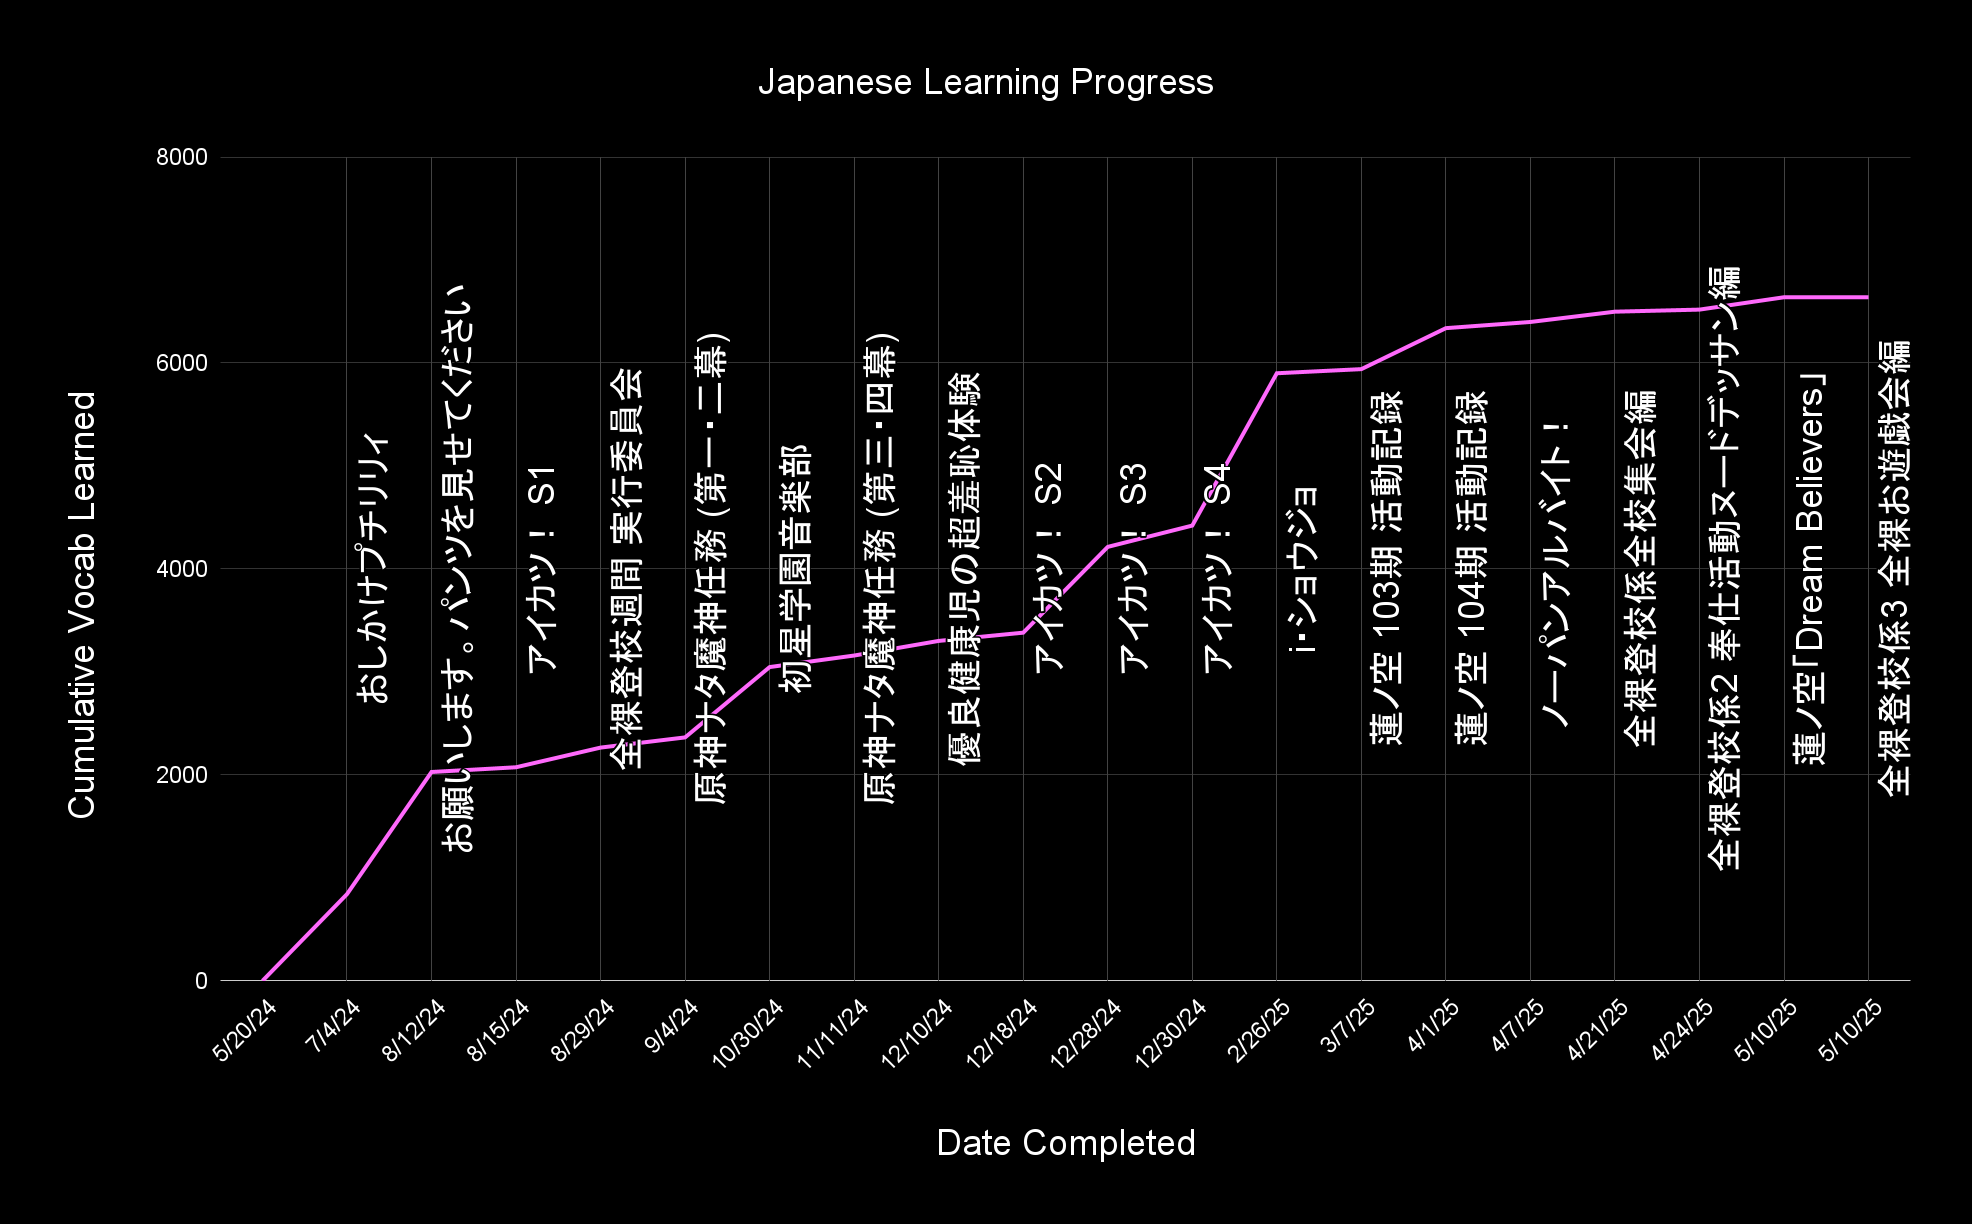
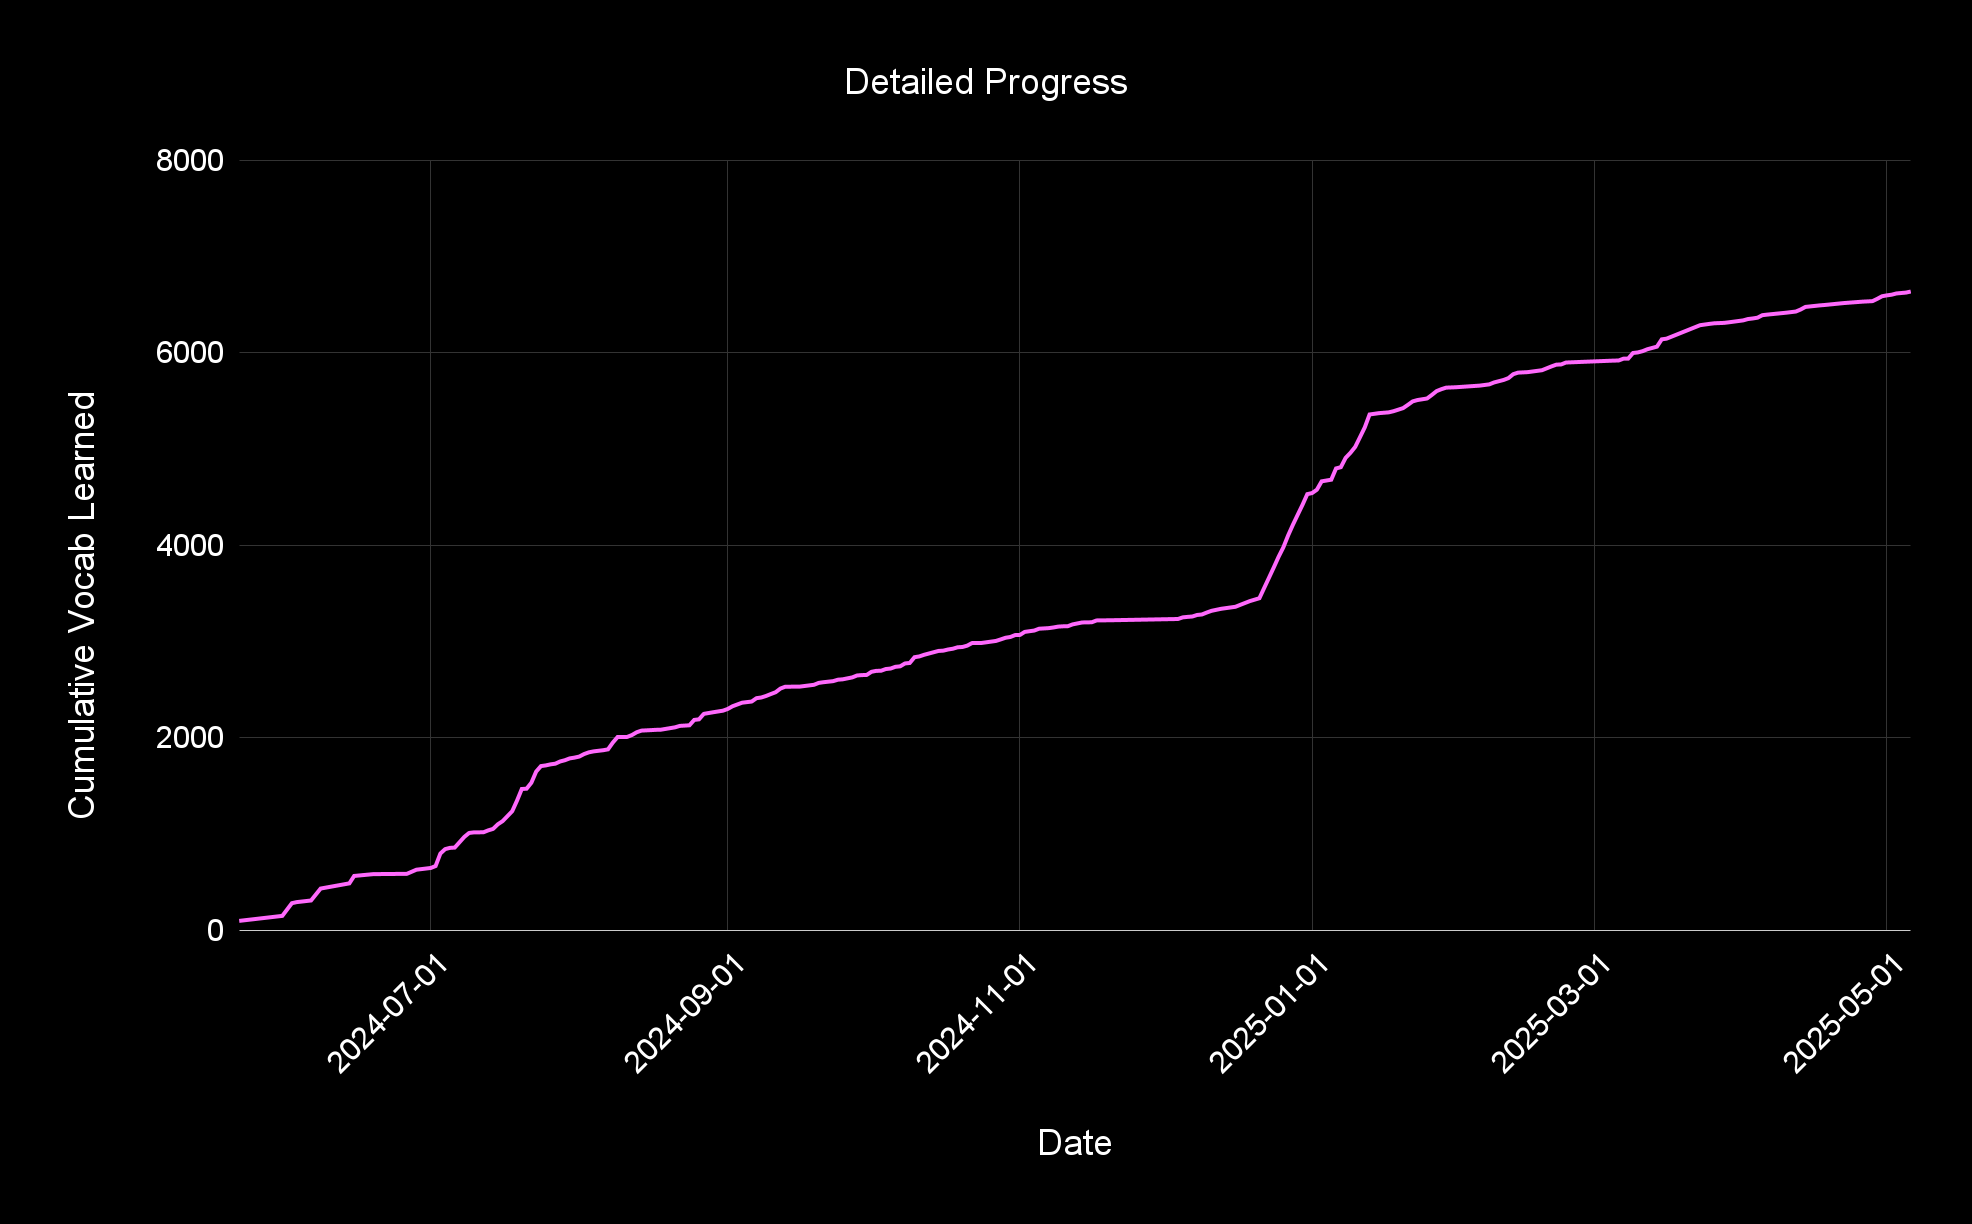
graph

diff --git a/index.html b/index.html
@@ -4,6 +4,9 @@
     <meta charset="UTF-8">
     <title>shio's list</title>
     <style>
+        html {
+            font-size: 150%;
+        }
         body {
             font-family: sans-serif;
             text-align: center;
@@ -18,7 +21,7 @@
             display: inline-block;
             margin: 10px;
             padding: 15px 30px;
-            font-size: 18px;
+            font-size: 27px;
             color: white;
             background: #ff69fc;
             border-radius: 8px;
@@ -70,13 +73,80 @@
     </div>
     
 
-    <img src="images/progresschart_1.png" 
-        alt="Media Chart"
-        style="width: 50vw; display: block; margin: 40px auto;">
+    
+    <div style="width: 100%; max-width: 1000px; margin: auto;">
+        <canvas id="cardsChart"></canvas>
+    </div>
+    <script src="https://cdn.jsdelivr.net/npm/chart.js"></script>
+    <script src="https://cdn.jsdelivr.net/npm/luxon@3.4.3/build/global/luxon.min.js"></script>
+    <script src="https://cdn.jsdelivr.net/npm/chartjs-adapter-luxon@1.3.1/dist/chartjs-adapter-luxon.umd.min.js"></script>
 
-    <img src="images/progresschart_2.png" 
-        alt="Media Chart"
-        style="width: 50vw; display: block; margin: 40px auto;">
+    <script>
+        const ctx = document.getElementById('cardsChart').getContext('2d');
+        new Chart(ctx, {
+            type: 'line',
+            data: {
+                datasets: [{
+                    label: 'Cumulative Cards Learned',
+                    data: [{ x: '2024-05-20', y: 0 },{ x: '2024-05-22', y: 96 },{ x: '2024-05-31', y: 148 },{ x: '2024-06-01', y: 214 },{ x: '2024-06-02', y: 280 },{ x: '2024-06-03', y: 291 },{ x: '2024-06-06', y: 308 },{ x: '2024-06-07', y: 370 },{ x: '2024-06-08', y: 432 },{ x: '2024-06-14', y: 486 },{ x: '2024-06-15', y: 563 },{ x: '2024-06-19', y: 582 },{ x: '2024-06-26', y: 585 },{ x: '2024-06-28', y: 628 },{ x: '2024-07-01', y: 646 },{ x: '2024-07-02', y: 666 },{ x: '2024-07-03', y: 796 },{ x: '2024-07-04', y: 842 },{ x: '2024-07-05', y: 855 },{ x: '2024-07-06', y: 858 },{ x: '2024-07-08', y: 969 },{ x: '2024-07-09', y: 1010 },{ x: '2024-07-10', y: 1016 },{ x: '2024-07-12', y: 1017 },{ x: '2024-07-13', y: 1037 },{ x: '2024-07-14', y: 1052 },{ x: '2024-07-15', y: 1100 },{ x: '2024-07-16', y: 1133 },{ x: '2024-07-18', y: 1236 },{ x: '2024-07-19', y: 1346 },{ x: '2024-07-20', y: 1467 },{ x: '2024-07-21', y: 1470 },{ x: '2024-07-22', y: 1532 },{ x: '2024-07-23', y: 1648 },{ x: '2024-07-24', y: 1705 },{ x: '2024-07-25', y: 1712 },{ x: '2024-07-26', y: 1723 },{ x: '2024-07-27', y: 1730 },{ x: '2024-07-28', y: 1753 },{ x: '2024-07-29', y: 1766 },{ x: '2024-07-30', y: 1785 },{ x: '2024-07-31', y: 1793 },{ x: '2024-08-01', y: 1804 },{ x: '2024-08-02', y: 1830 },{ x: '2024-08-03', y: 1848 },{ x: '2024-08-04', y: 1858 },{ x: '2024-08-05', y: 1864 },{ x: '2024-08-06', y: 1870 },{ x: '2024-08-07', y: 1879 },{ x: '2024-08-08', y: 1949 },{ x: '2024-08-09', y: 2007 },{ x: '2024-08-11', y: 2008 },{ x: '2024-08-12', y: 2028 },{ x: '2024-08-13', y: 2057 },{ x: '2024-08-14', y: 2074 },{ x: '2024-08-16', y: 2079 },{ x: '2024-08-17', y: 2082 },{ x: '2024-08-18', y: 2083 },{ x: '2024-08-21', y: 2108 },{ x: '2024-08-22', y: 2123 },{ x: '2024-08-24', y: 2129 },{ x: '2024-08-25', y: 2185 },{ x: '2024-08-26', y: 2191 },{ x: '2024-08-27', y: 2248 },{ x: '2024-08-29', y: 2265 },{ x: '2024-08-31', y: 2281 },{ x: '2024-09-01', y: 2299 },{ x: '2024-09-02', y: 2327 },{ x: '2024-09-04', y: 2364 },{ x: '2024-09-06', y: 2376 },{ x: '2024-09-07', y: 2411 },{ x: '2024-09-08', y: 2418 },{ x: '2024-09-09', y: 2434 },{ x: '2024-09-10', y: 2454 },{ x: '2024-09-11', y: 2473 },{ x: '2024-09-12', y: 2511 },{ x: '2024-09-13', y: 2530 },{ x: '2024-09-16', y: 2531 },{ x: '2024-09-19', y: 2550 },{ x: '2024-09-20', y: 2570 },{ x: '2024-09-21', y: 2577 },{ x: '2024-09-23', y: 2588 },{ x: '2024-09-24', y: 2603 },{ x: '2024-09-25', y: 2607 },{ x: '2024-09-27', y: 2627 },{ x: '2024-09-28', y: 2647 },{ x: '2024-09-29', y: 2651 },{ x: '2024-09-30', y: 2652 },{ x: '2024-10-01', y: 2685 },{ x: '2024-10-02', y: 2695 },{ x: '2024-10-03', y: 2696 },{ x: '2024-10-04', y: 2714 },{ x: '2024-10-05', y: 2719 },{ x: '2024-10-06', y: 2737 },{ x: '2024-10-07', y: 2742 },{ x: '2024-10-08', y: 2772 },{ x: '2024-10-09', y: 2777 },{ x: '2024-10-10', y: 2837 },{ x: '2024-10-11', y: 2845 },{ x: '2024-10-12', y: 2862 },{ x: '2024-10-15', y: 2902 },{ x: '2024-10-16', y: 2905 },{ x: '2024-10-17', y: 2917 },{ x: '2024-10-18', y: 2925 },{ x: '2024-10-19', y: 2940 },{ x: '2024-10-20', y: 2943 },{ x: '2024-10-21', y: 2957 },{ x: '2024-10-22', y: 2984 },{ x: '2024-10-24', y: 2985 },{ x: '2024-10-27', y: 3006 },{ x: '2024-10-28', y: 3022 },{ x: '2024-10-29', y: 3039 },{ x: '2024-10-30', y: 3047 },{ x: '2024-10-31', y: 3067 },{ x: '2024-11-01', y: 3068 },{ x: '2024-11-02', y: 3100 },{ x: '2024-11-04', y: 3114 },{ x: '2024-11-05', y: 3133 },{ x: '2024-11-07', y: 3139 },{ x: '2024-11-08', y: 3146 },{ x: '2024-11-09', y: 3155 },{ x: '2024-11-10', y: 3158 },{ x: '2024-11-11', y: 3159 },{ x: '2024-11-12', y: 3178 },{ x: '2024-11-14', y: 3198 },{ x: '2024-11-16', y: 3200 },{ x: '2024-11-17', y: 3219 },{ x: '2024-11-20', y: 3221 },{ x: '2024-12-04', y: 3234 },{ x: '2024-12-05', y: 3251 },{ x: '2024-12-06', y: 3256 },{ x: '2024-12-07', y: 3260 },{ x: '2024-12-08', y: 3276 },{ x: '2024-12-09', y: 3281 },{ x: '2024-12-10', y: 3301 },{ x: '2024-12-11', y: 3319 },{ x: '2024-12-13', y: 3340 },{ x: '2024-12-15', y: 3354 },{ x: '2024-12-16', y: 3361 },{ x: '2024-12-17', y: 3381 },{ x: '2024-12-19', y: 3420 },{ x: '2024-12-21', y: 3450 },{ x: '2024-12-22', y: 3557 },{ x: '2024-12-23', y: 3663 },{ x: '2024-12-24', y: 3770 },{ x: '2024-12-25', y: 3880 },{ x: '2024-12-26', y: 3979 },{ x: '2024-12-27', y: 4103 },{ x: '2024-12-28', y: 4214 },{ x: '2024-12-29', y: 4318 },{ x: '2024-12-30', y: 4421 },{ x: '2024-12-31', y: 4532 },{ x: '2025-01-01', y: 4543 },{ x: '2025-01-02', y: 4578 },{ x: '2025-01-03', y: 4665 },{ x: '2025-01-05', y: 4682 },{ x: '2025-01-06', y: 4799 },{ x: '2025-01-07', y: 4812 },{ x: '2025-01-08', y: 4909 },{ x: '2025-01-09', y: 4961 },{ x: '2025-01-10', y: 5023 },{ x: '2025-01-11', y: 5124 },{ x: '2025-01-12', y: 5226 },{ x: '2025-01-13', y: 5360 },{ x: '2025-01-15', y: 5374 },{ x: '2025-01-17', y: 5382 },{ x: '2025-01-18', y: 5394 },{ x: '2025-01-20', y: 5426 },{ x: '2025-01-21', y: 5460 },{ x: '2025-01-22', y: 5496 },{ x: '2025-01-23', y: 5510 },{ x: '2025-01-25', y: 5526 },{ x: '2025-01-26', y: 5563 },{ x: '2025-01-27', y: 5603 },{ x: '2025-01-28', y: 5623 },{ x: '2025-01-29', y: 5639 },{ x: '2025-01-31', y: 5643 },{ x: '2025-02-05', y: 5660 },{ x: '2025-02-07', y: 5673 },{ x: '2025-02-08', y: 5693 },{ x: '2025-02-10', y: 5719 },{ x: '2025-02-11', y: 5738 },{ x: '2025-02-12', y: 5779 },{ x: '2025-02-13', y: 5795 },{ x: '2025-02-15', y: 5800 },{ x: '2025-02-18', y: 5820 },{ x: '2025-02-19', y: 5840 },{ x: '2025-02-20', y: 5860 },{ x: '2025-02-21', y: 5878 },{ x: '2025-02-22', y: 5880 },{ x: '2025-02-23', y: 5900 },{ x: '2025-03-05', y: 5920 },{ x: '2025-03-06', y: 5921 },{ x: '2025-03-07', y: 5940 },{ x: '2025-03-08', y: 5941 },{ x: '2025-03-09', y: 5999 },{ x: '2025-03-10', y: 6005 },{ x: '2025-03-11', y: 6018 },{ x: '2025-03-12', y: 6038 },{ x: '2025-03-14', y: 6065 },{ x: '2025-03-15', y: 6141 },{ x: '2025-03-16', y: 6148 },{ x: '2025-03-17', y: 6168 },{ x: '2025-03-18', y: 6188 },{ x: '2025-03-19', y: 6208 },{ x: '2025-03-20', y: 6228 },{ x: '2025-03-21', y: 6248 },{ x: '2025-03-22', y: 6268 },{ x: '2025-03-23', y: 6288 },{ x: '2025-03-25', y: 6302 },{ x: '2025-03-26', y: 6308 },{ x: '2025-03-28', y: 6312 },{ x: '2025-03-29', y: 6318 },{ x: '2025-04-01', y: 6338 },{ x: '2025-04-02', y: 6352 },{ x: '2025-04-03', y: 6358 },{ x: '2025-04-04', y: 6366 },{ x: '2025-04-05', y: 6392 },{ x: '2025-04-06', y: 6398 },{ x: '2025-04-10', y: 6418 },{ x: '2025-04-12', y: 6430 },{ x: '2025-04-13', y: 6451 },{ x: '2025-04-14', y: 6478 },{ x: '2025-04-17', y: 6494 },{ x: '2025-04-18', y: 6498 },{ x: '2025-04-22', y: 6518 },{ x: '2025-04-26', y: 6533 },{ x: '2025-04-28', y: 6538 },{ x: '2025-04-29', y: 6562 },{ x: '2025-04-30', y: 6589 },{ x: '2025-05-01', y: 6598 },{ x: '2025-05-02', y: 6605 },{ x: '2025-05-03', y: 6618 },{ x: '2025-05-05', y: 6627 },{ x: '2025-05-06', y: 6638 }],
+                    borderColor: 'rgba(255, 105, 252, 1)',
+                    backgroundColor: 'rgba(255, 105, 252, 0.2)',
+                    fill: true,
+                    tension: 0,
+                    pointRadius: 0
+                }]
+            },
+            options: {
+                responsive: true,
+                scales: {
+                    x: {
+                        type: 'time',
+                        time: {
+                            unit: 'day'
+                        },
+                        title: {
+                            display: true,
+                            text: 'Date',
+                            font: {
+                                size: 16
+                            }
+                        },
+                        ticks: {
+                            font: {
+                                size: 12
+                            }
+                        }
+                    },
+                    y: {
+                        beginAtZero: true,
+                        title: {
+                            display: true,
+                            text: 'Total Learned',
+                            font: {
+                                size: 16
+                            }
+                        },
+                        ticks: {
+                            font: {
+                                size: 16
+                            }
+                        }
+                    }
+                },
+                plugins: {
+                    legend: {
+                        labels: {
+                            color: '#e0e0e0',
+                            font: {
+                                size: 16
+                            }
+                        }
+                    }
+                }
+            }
+        });
+    </script>
+    
 
 </body>
 </html>